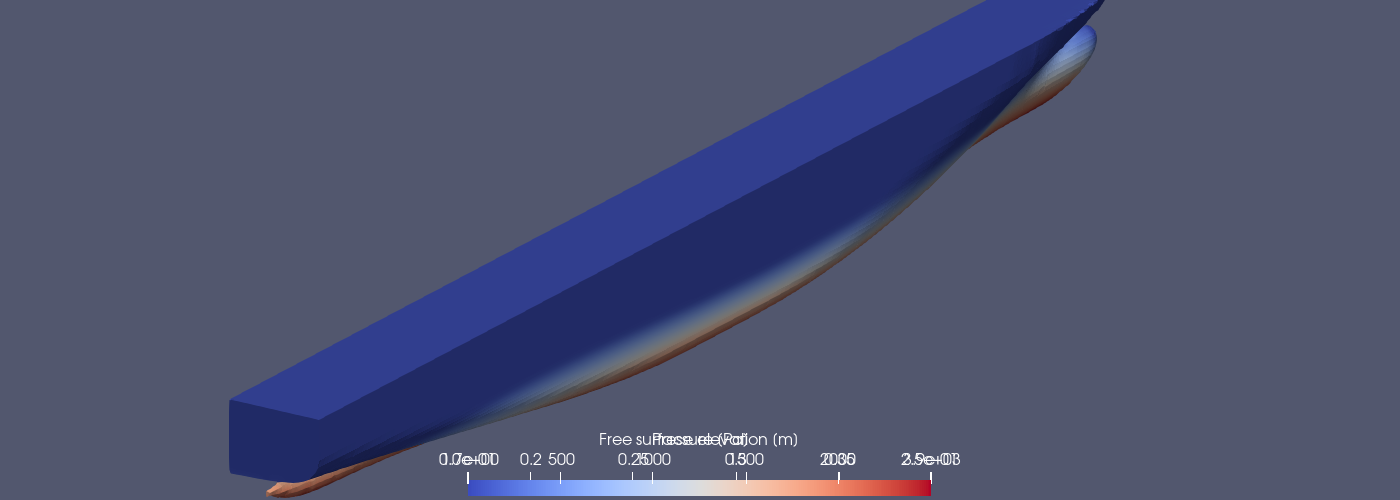
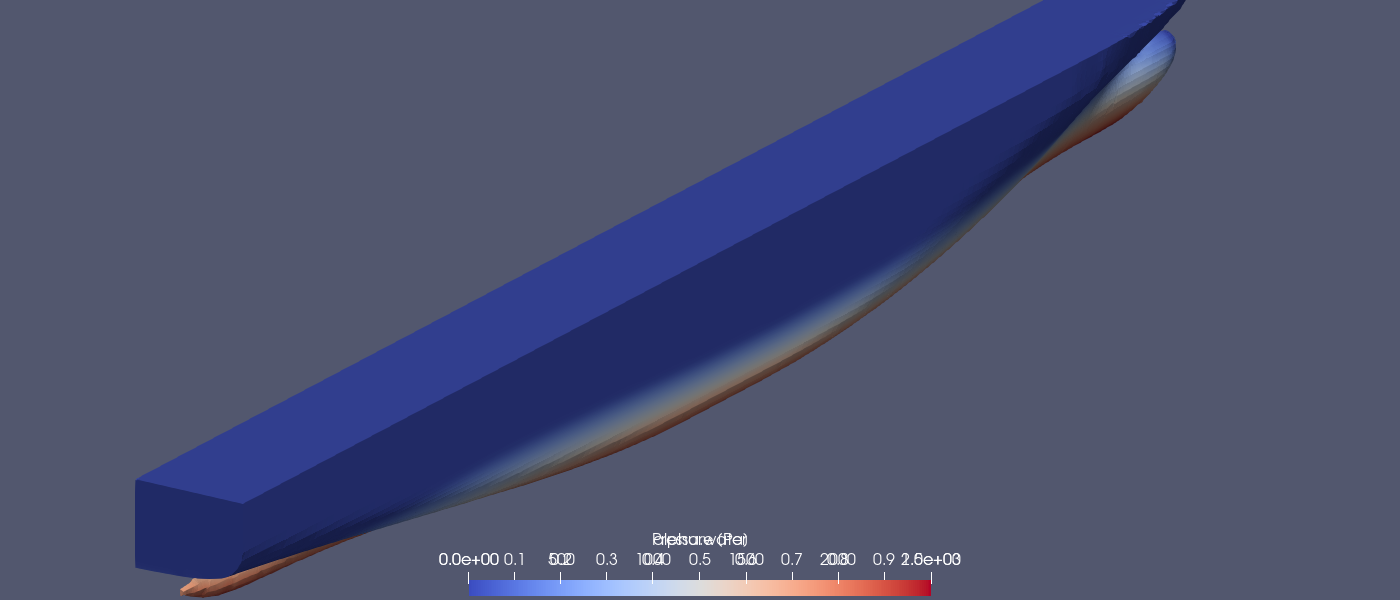
Fix overlapping colorbars: hide_all_colorbars() before every render
Each image now shows exactly one colorbar. Rewrote render script to
call hide_all_colorbars() before every Render() call.

diff --git a/render_fields.py b/render_fields.py
@@ -7,21 +7,17 @@ CASE    = os.path.dirname(os.path.abspath(__file__))
 VTK_DIR = f'{CASE}/VTK'
 SURF    = f'{CASE}/postProcessing/surfaces'
 
-VIEW_W, VIEW_H = 1400, 500
+def hide_all_colorbars():
+    """Hide every scalar bar in the active view before rendering."""
+    v = GetRenderView()
+    for rep in GetRepresentations():
+        try:
+            rep.SetScalarBarVisibility(v, False)
+        except Exception:
+            pass
 
-# Exact camera matching the midplane image: side view along -y, x-z plane
-def apply_camera(v):
-    v.CameraPosition           = [2.0, -60.0, 0.2]
-    v.CameraFocalPoint         = [2.0,   0.0, 0.2]
-    v.CameraViewUp             = [0, 0, 1]
-    v.CameraParallelProjection = 1
-    v.CameraParallelScale      = 3.0
-    v.ViewSize                 = [VIEW_W, VIEW_H]
-    v.Background               = [1, 1, 1]
-    v.OrientationAxesVisibility = 0
-
-def save(path):
-    SaveScreenshot(path, GetRenderView(), ImageResolution=[VIEW_W, VIEW_H])
+def save(path, w=1400, h=500):
+    SaveScreenshot(path, GetRenderView(), ImageResolution=[w, h])
     print(f'saved: {path}')
 
 # ── 1. Midplane α.water at t = 5 s ───────────────────────────────────────────
@@ -36,46 +32,28 @@ lut_a.RescaleTransferFunction(0.0, 1.0)
 cb_a = GetScalarBar(lut_a, GetRenderView())
 cb_a.Title = 'alpha.water'
 cb_a.ComponentTitle = ''
-cb_a.Visibility = 1
+cb_a.Orientation = 'Horizontal'
+cb_a.WindowLocation = 'Lower Center'
 
 v = GetRenderView()
-apply_camera(v)
+v.ViewSize                  = [1400, 500]
+v.Background                = [1, 1, 1]
+v.OrientationAxesVisibility = 0
+v.CameraPosition            = [2.0, -60.0, 0.2]
+v.CameraFocalPoint          = [2.0,   0.0, 0.2]
+v.CameraViewUp              = [0, 0, 1]
+v.CameraParallelProjection  = 1
+v.CameraParallelScale       = 3.0
+
+hide_all_colorbars()
+cb_a.Visibility = 1
 Render()
-save(f'{CASE}/wave_pattern_midplane.png')
-cb_a.Visibility = 0   # hide alpha colorbar before GIF frames
+save(f'{CASE}/wave_pattern_midplane.png', 1400, 500)
 Delete(mid); del mid
 
-# ── 2. GIF: interface side view t = 1–6 s ─────────────────────────────────────
-# Use a Calculator to expose z as a scalar field so we can colour by
-# wave elevation — same visual idea as the alpha midplane image.
-
-gif_times = list(range(1, 7))
-
-# Pass 1: find global z range across all frames for a fixed colour scale
-z_lo, z_hi = 1e9, -1e9
-for t in gif_times:
-    src = LegacyVTKReader(FileNames=[f'{SURF}/{t}/interface.vtk'])
-    src.UpdatePipeline()
-    b = src.GetDataInformation().GetBounds()  # xmin xmax ymin ymax zmin zmax
-    z_lo = min(z_lo, b[4])
-    z_hi = max(z_hi, b[5])
-    Delete(src)
-
-# Set up LUT once — reused for every frame
-lut_z = GetColorTransferFunction('z_elevation')
-lut_z.ApplyPreset('Cool to Warm', True)
-lut_z.RescaleTransferFunction(z_lo, z_hi)
-
-cb_z = GetScalarBar(lut_z, GetRenderView())
-cb_z.Title = 'Free surface elevation [m]'
-cb_z.ComponentTitle = ''
-cb_z.Orientation = 'Horizontal'
-cb_z.WindowLocation = 'Lower Center'
-cb_z.Visibility = 1
-
-# ── 2. Hull surface pressure contours ────────────────────────────────────────
-hull_p    = LegacyVTKReader(FileNames=[f'{VTK_DIR}/hull/hull_2518.vtk'])
-hullpDsp  = Show(hull_p)
+# ── 2. Hull surface pressure — isometric view ─────────────────────────────────
+hull_p   = LegacyVTKReader(FileNames=[f'{VTK_DIR}/hull/hull_2518.vtk'])
+hullpDsp = Show(hull_p)
 ColorBy(hullpDsp, ('POINTS', 'p'))
 
 lut_p = GetColorTransferFunction('p')
@@ -87,59 +65,89 @@ cb_p.Title = 'Pressure [Pa]'
 cb_p.ComponentTitle = ''
 cb_p.Orientation = 'Horizontal'
 cb_p.WindowLocation = 'Lower Center'
-cb_p.Visibility = 1
 
-# Isometric view: equal foreshortening from above-port-bow
-# Hull centre ~(3.0, -0.2, 0.28); pull camera along (−1,−1,1) diagonal
 vp = GetRenderView()
 vp.ViewSize                  = [1400, 600]
 vp.Background                = [1, 1, 1]
 vp.OrientationAxesVisibility = 0
-vp.CameraParallelProjection  = 1   # true iso (no perspective distortion)
+vp.CameraParallelProjection  = 1
 vp.CameraPosition            = [-2.0, -3.5, 2.5]
 vp.CameraFocalPoint          = [ 3.0, -0.2, 0.28]
 vp.CameraViewUp              = [0, 0, 1]
 vp.CameraParallelScale       = 1.0
-Render()
-save(f'{CASE}/hull_pressure.png')
 
-cb_p.Visibility = 0
+hide_all_colorbars()
+cb_p.Visibility = 1
+Render()
+save(f'{CASE}/hull_pressure.png', 1400, 600)
 Delete(hull_p); del hull_p
 
-# Load hull once — kept visible in every frame as a solid grey surface
+# ── 3. GIF: interface side view t = 1–6 ──────────────────────────────────────
+gif_times = list(range(1, 7))
+
+# Global z range for consistent colour scale across frames
+z_lo, z_hi = 1e9, -1e9
+for t in gif_times:
+    src = LegacyVTKReader(FileNames=[f'{SURF}/{t}/interface.vtk'])
+    src.UpdatePipeline()
+    b = src.GetDataInformation().GetBounds()
+    z_lo = min(z_lo, b[4])
+    z_hi = max(z_hi, b[5])
+    Delete(src)
+
+lut_z = GetColorTransferFunction('z_elevation')
+lut_z.ApplyPreset('Cool to Warm', True)
+lut_z.RescaleTransferFunction(z_lo, z_hi)
+
+cb_z = GetScalarBar(lut_z, GetRenderView())
+cb_z.Title = 'Free surface elevation [m]'
+cb_z.ComponentTitle = ''
+cb_z.Orientation = 'Horizontal'
+cb_z.WindowLocation = 'Lower Center'
+
+# Hull shown as solid grey throughout GIF
 hull    = LegacyVTKReader(FileNames=[f'{VTK_DIR}/hull/hull_2518.vtk'])
 hullDsp = Show(hull)
-hullDsp.AmbientColor  = [0.3, 0.3, 0.3]
-hullDsp.DiffuseColor  = [0.3, 0.3, 0.3]
-hullDsp.Opacity       = 1.0
-hullDsp.ColorArrayName = ['POINTS', '']   # solid colour, no scalar
+hullDsp.AmbientColor   = [0.35, 0.35, 0.35]
+hullDsp.DiffuseColor   = [0.35, 0.35, 0.35]
+hullDsp.ColorArrayName = ['POINTS', '']
 
 frames = []
 for t in gif_times:
     src  = LegacyVTKReader(FileNames=[f'{SURF}/{t}/interface.vtk'])
     calc = Calculator(Input=src)
     calc.ResultArrayName = 'z_elevation'
-    calc.Function = 'coordsZ'
+    calc.Function        = 'coordsZ'
     calc.UpdatePipeline()
 
     dsp = Show(calc)
     ColorBy(dsp, ('POINTS', 'z_elevation'))
     dsp.LookupTable = lut_z
-    cb_z.Visibility = 1
 
     txt = Text()
     txt.Text = f't = {t} s'
     tDsp = Show(txt)
-    tDsp.FontSize = 24
-    tDsp.Bold = 1
-    tDsp.Color = [0, 0, 0]
+    tDsp.FontSize       = 24
+    tDsp.Bold           = 1
+    tDsp.Color          = [0, 0, 0]
     tDsp.WindowLocation = 'Upper Right Corner'
 
-    apply_camera(GetRenderView())
+    gv = GetRenderView()
+    gv.ViewSize                  = [1400, 500]
+    gv.Background                = [1, 1, 1]
+    gv.OrientationAxesVisibility = 0
+    gv.CameraPosition            = [2.0, -60.0, 0.2]
+    gv.CameraFocalPoint          = [2.0,   0.0, 0.2]
+    gv.CameraViewUp              = [0, 0, 1]
+    gv.CameraParallelProjection  = 1
+    gv.CameraParallelScale       = 3.0
+
+    hide_all_colorbars()
+    cb_z.Visibility = 1
     Render()
 
     tmp = f'{CASE}/_frame_{t}.png'
-    save(tmp)
+    save(tmp, 1400, 500)
     frames.append(Image.open(tmp).copy())
 
     Hide(calc); Delete(calc); Delete(src)